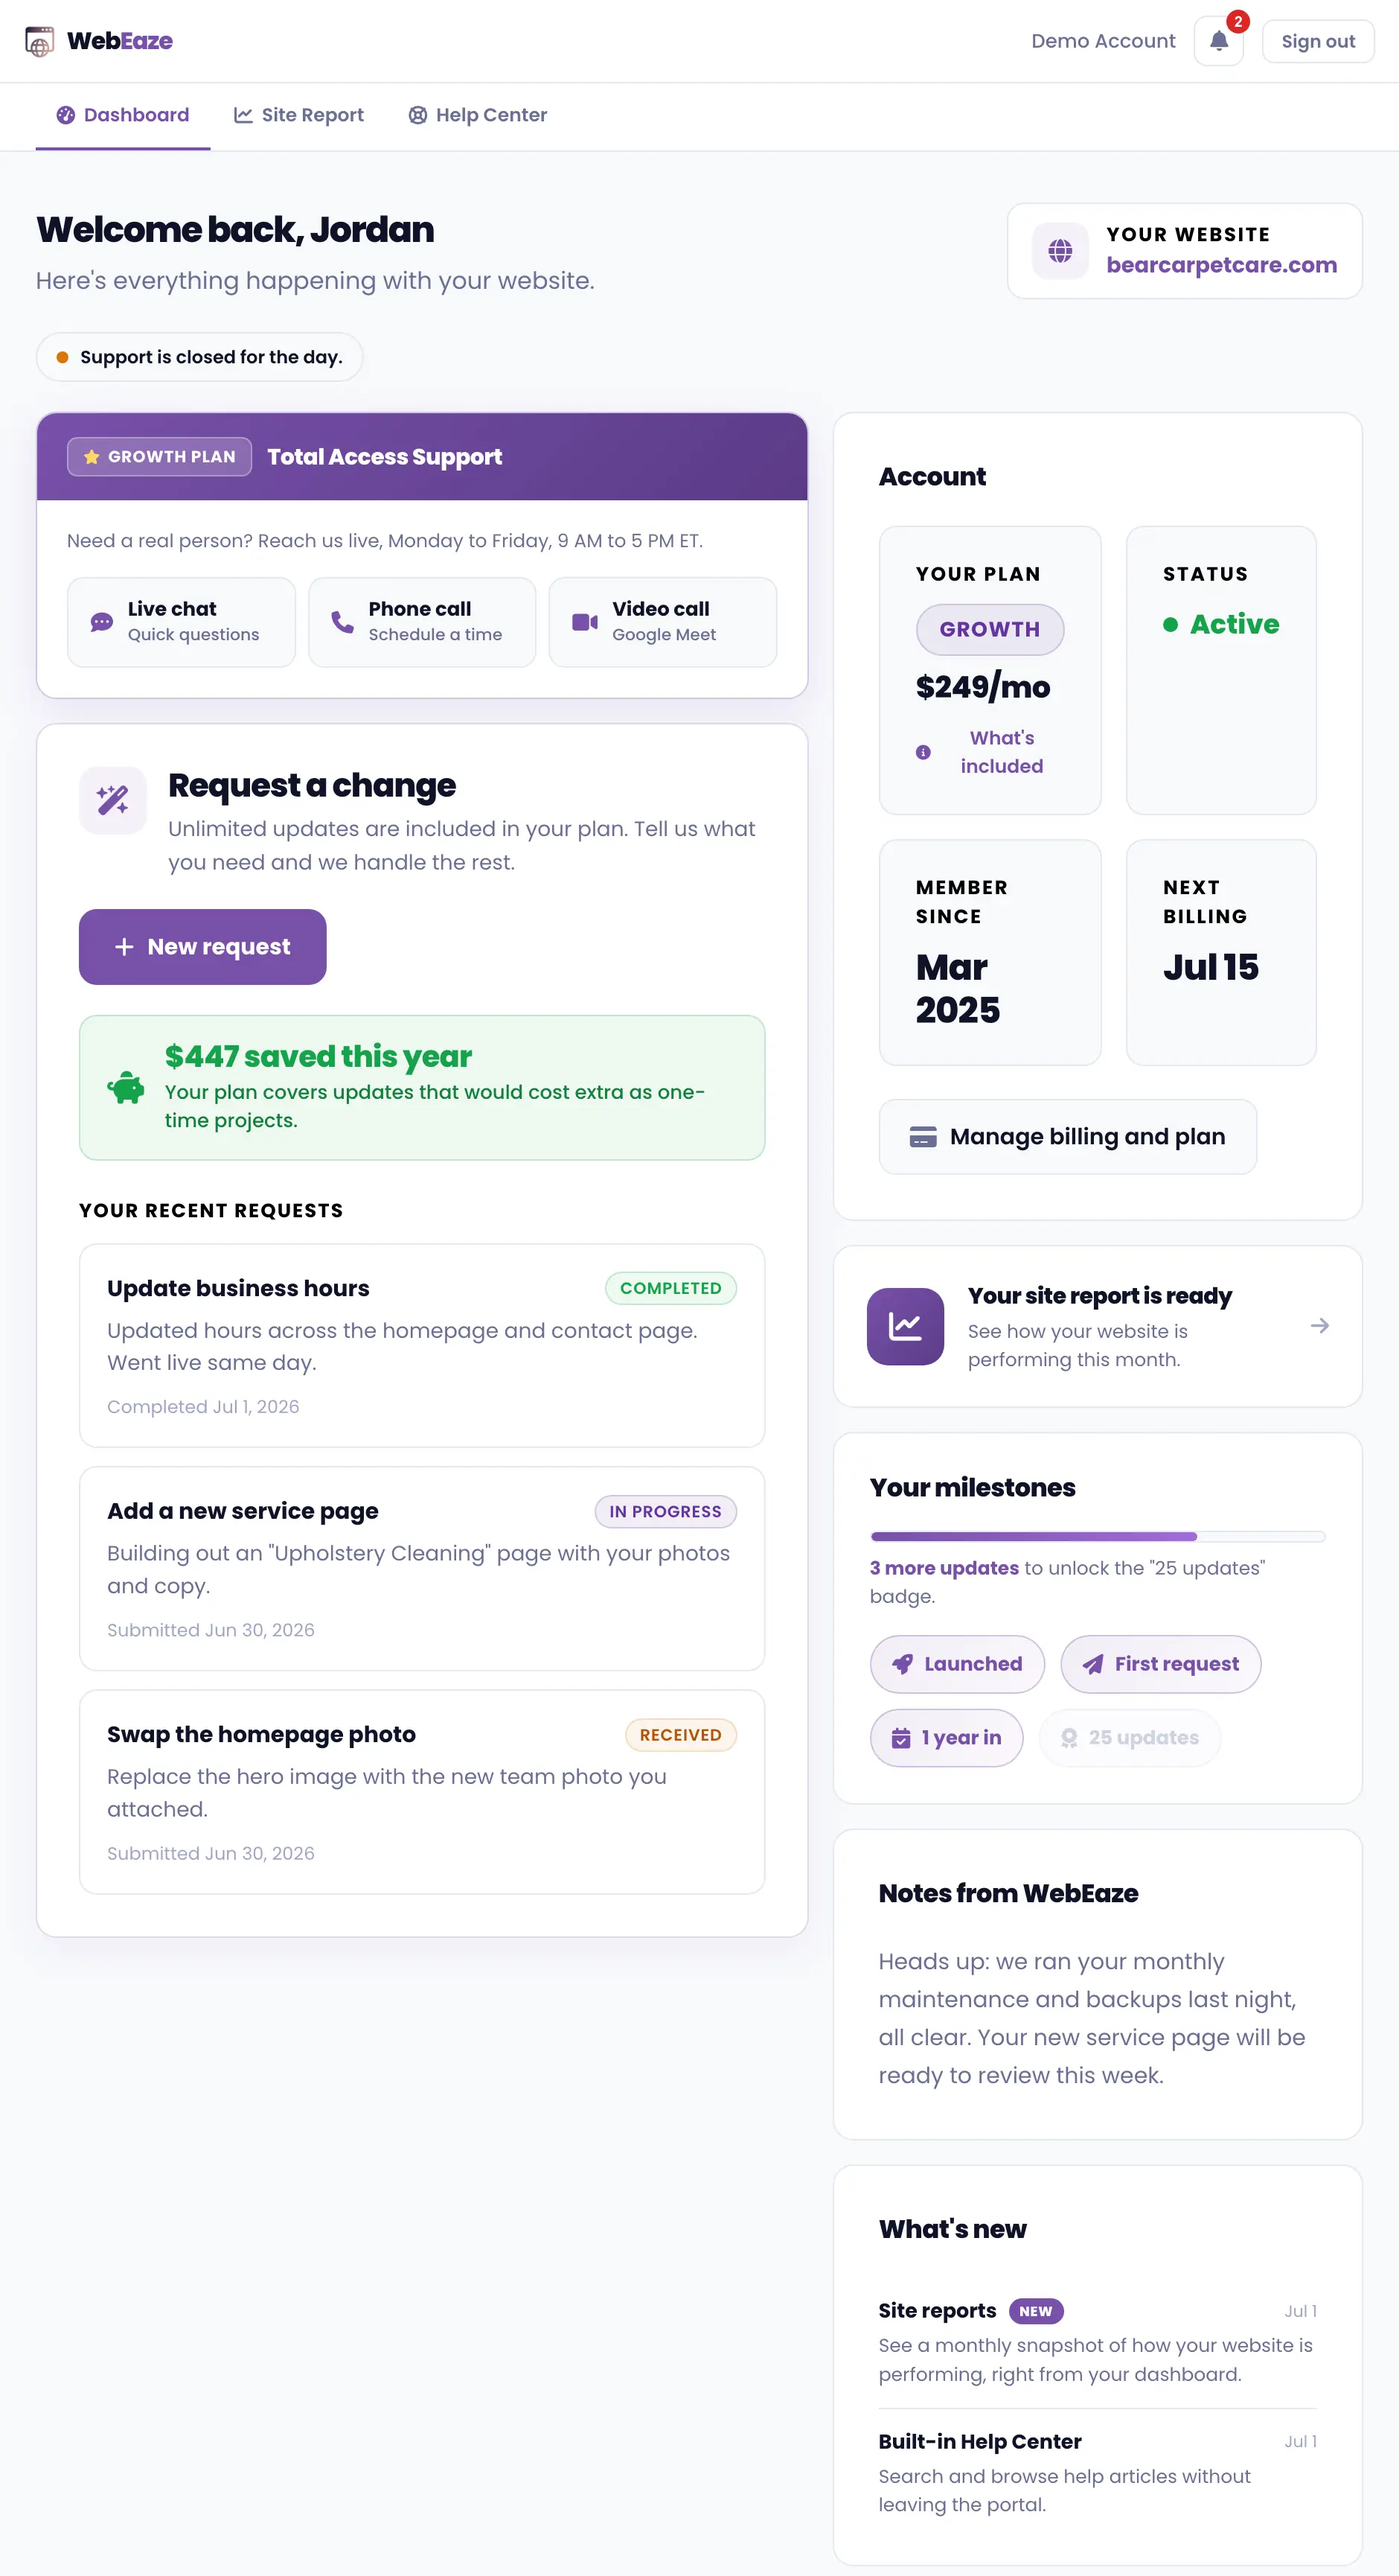
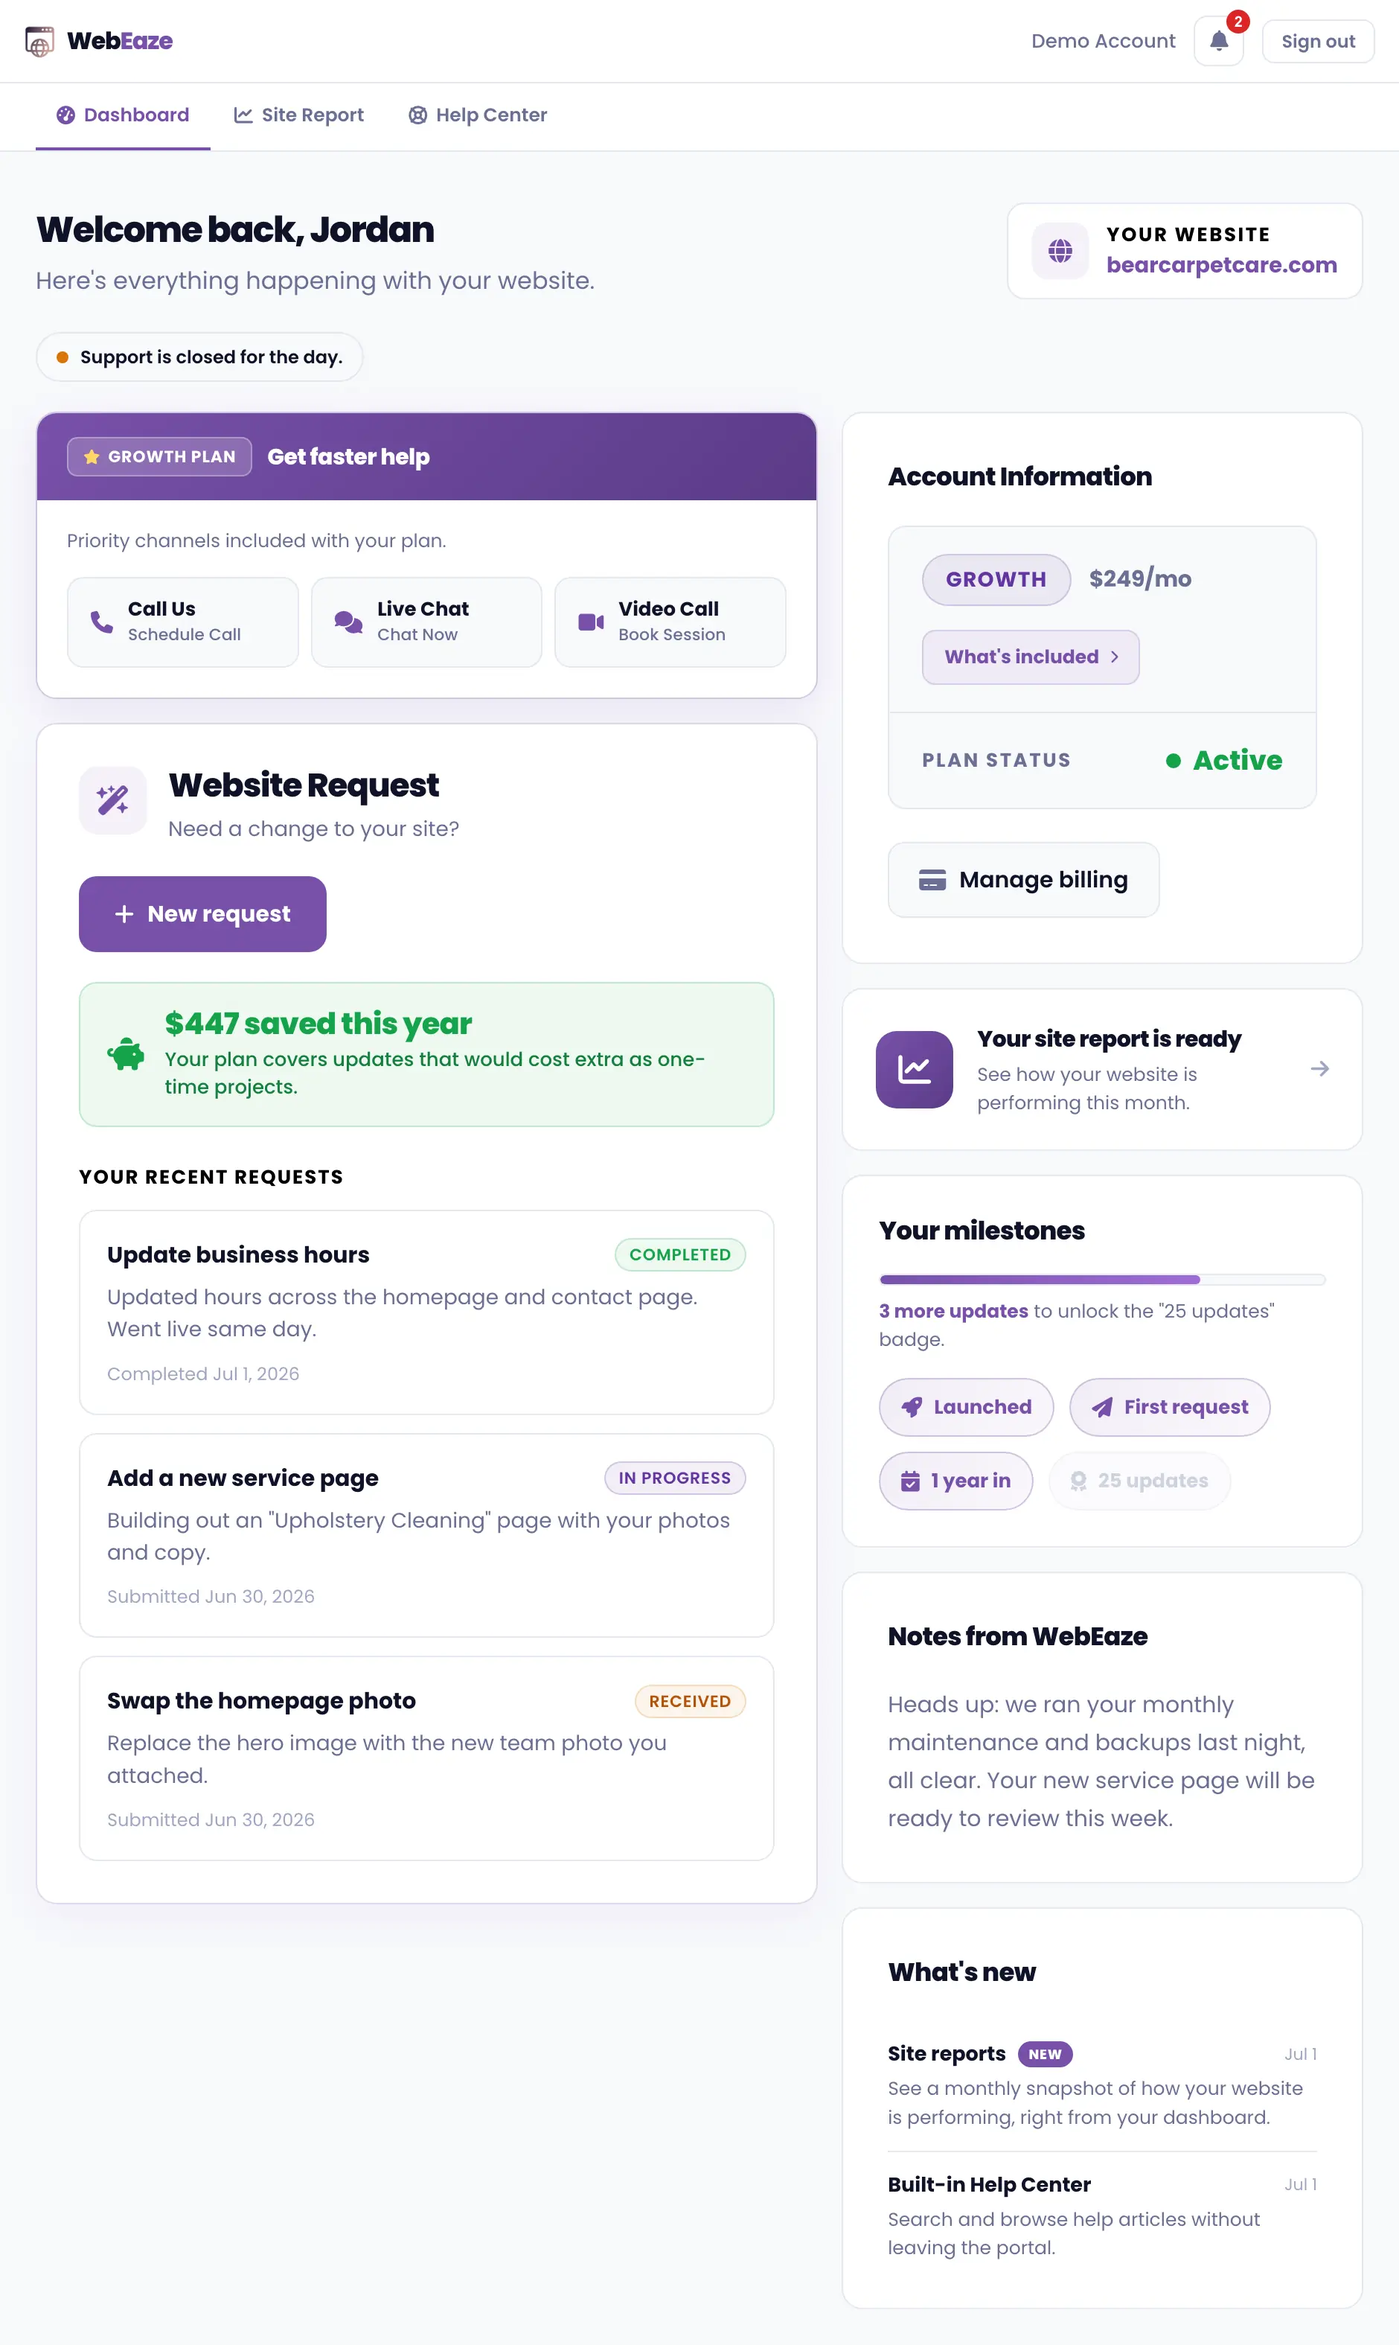
Update portal demo dashboard to mirror the live portal
- Rebuild the demo's Account section to the live account-panel layout
  (plan badge + price, What's included pill, Plan Status, Manage billing),
  replacing the older four-tile grid.
- Match the growth support panel to live copy (Get faster help; Call Us,
  Live Chat, Video Call) and rename the requests section to Website Request.
- Regenerate portal-demo-preview.webp from the updated demo and correct the
  homepage preview <img> aspect ratio (940x1575) to avoid layout shift.

diff --git a/portal-demo.html b/portal-demo.html
@@ -116,9 +116,15 @@
     .plan-badge { display: inline-block; font-size: 14px; font-weight: 700; padding: 6px 15px; border-radius: 100px; text-transform: uppercase; letter-spacing: .05em; background: rgba(120,81,169,.1); color: #6435a0; border: 1px solid rgba(120,81,169,.25); }
     .status-active { display: inline-flex; align-items: center; gap: 8px; font-size: 18px; font-weight: 800; color: var(--green); }
     .status-active .status-dot { width: 10px; height: 10px; animation: none; }
-    .whats-included-btn { display: inline-flex; align-items: center; gap: 6px; margin-top: 10px; padding: 0; background: none; border: none; color: var(--brand); font-size: 12.5px; font-weight: 600; cursor: pointer; font-family: 'Poppins', sans-serif; transition: gap .15s; }
-    .whats-included-btn:hover { gap: 9px; text-decoration: underline; }
-    .whats-included-btn i { font-size: 10px; }
+    .account-panel { border: 1px solid var(--border); border-radius: 12px; background: var(--bg); overflow: hidden; }
+    .account-row { display: flex; align-items: center; justify-content: space-between; gap: 16px; padding: 18px 22px; flex-wrap: wrap; }
+    .account-plan { display: flex; align-items: baseline; gap: 12px; flex-wrap: wrap; }
+    .account-price { font-size: 15px; font-weight: 700; color: var(--muted); letter-spacing: -.01em; }
+    .account-divider { height: 1px; background: var(--border); }
+    .account-row-label { font-size: 13px; font-weight: 700; text-transform: uppercase; letter-spacing: .1em; color: var(--muted); }
+    .whats-included-btn { display: inline-flex; align-items: center; gap: 7px; padding: 8px 14px; background: var(--brand-light); border: 1px solid rgba(120,81,169,.2); border-radius: 9px; color: var(--brand); font-size: 12.5px; font-weight: 700; cursor: pointer; font-family: 'Poppins', sans-serif; white-space: nowrap; transition: background .15s, border-color .15s; }
+    .whats-included-btn:hover { background: rgba(120,81,169,.14); border-color: rgba(120,81,169,.35); }
+    .whats-included-btn i { font-size: 9px; }
     .stripe-btn { display: inline-flex; align-items: center; gap: 9px; background: var(--bg); border: 1px solid var(--border); border-radius: 11px; color: var(--text); font-size: 15px; font-weight: 600; padding: 13px 20px; text-decoration: none; cursor: pointer; font-family: 'Poppins', sans-serif; transition: border-color .15s, background .15s; margin-top: 22px; }
     .stripe-btn:hover { border-color: var(--brand); background: var(--brand-light); color: var(--brand); }
     .stripe-btn i { font-size: 16px; color: var(--muted); }
@@ -319,15 +325,15 @@
         <!-- Growth support -->
         <div class="growth-panel">
           <div class="gp-header">
-            <span class="gp-badge"><i class="fas fa-star"></i> Growth plan</span>
-            <span class="gp-header-title">Total Access Support</span>
+            <span class="gp-badge"><i class="fas fa-star"></i> Growth Plan</span>
+            <span class="gp-header-title">Get faster help</span>
           </div>
           <div class="gp-body-inner">
-            <div class="gp-sub">Need a real person? Reach us live, Monday to Friday, 9 AM to 5 PM ET.</div>
+            <div class="gp-sub">Priority channels included with your plan.</div>
             <div class="gp-channels">
-              <div class="gp-channel demo-action"><i class="fas fa-comment-dots"></i><div><div class="gc-name">Live chat</div><div class="gc-sub">Quick questions</div></div></div>
-              <div class="gp-channel demo-action"><i class="fas fa-phone"></i><div><div class="gc-name">Phone call</div><div class="gc-sub">Schedule a time</div></div></div>
-              <div class="gp-channel demo-action"><i class="fas fa-video"></i><div><div class="gc-name">Video call</div><div class="gc-sub">Google Meet</div></div></div>
+              <div class="gp-channel demo-action"><i class="fas fa-phone"></i><div><div class="gc-name">Call Us</div><div class="gc-sub">Schedule Call</div></div></div>
+              <div class="gp-channel demo-action"><i class="fas fa-comments"></i><div><div class="gc-name">Live Chat</div><div class="gc-sub">Chat Now</div></div></div>
+              <div class="gp-channel demo-action"><i class="fas fa-video"></i><div><div class="gc-name">Video Call</div><div class="gc-sub">Book Session</div></div></div>
             </div>
           </div>
         </div>
@@ -337,8 +343,8 @@
           <div class="section-head">
             <div class="section-head-icon"><i class="fas fa-wand-magic-sparkles"></i></div>
             <div>
-              <div class="section-title">Request a change</div>
-              <div class="section-sub">Unlimited updates are included in your plan. Tell us what you need and we handle the rest.</div>
+              <div class="section-title">Website Request</div>
+              <div class="section-sub">Need a change to your site?</div>
             </div>
           </div>
           <button class="request-cta" id="new-request-btn"><i class="fas fa-plus"></i> New request</button>
@@ -390,28 +396,22 @@
       <!-- RIGHT -->
       <div>
         <div class="card">
-          <div class="card-label">Account</div>
-          <div class="info-grid">
-            <div class="info-tile">
-              <div class="info-tile-label">Your plan</div>
-              <span class="plan-badge">Growth</span>
-              <div class="info-tile-sub">$249/mo</div>
-              <button class="whats-included-btn" id="whats-included"><i class="fas fa-circle-info"></i> What's included</button>
+          <div class="card-label">Account Information</div>
+          <div class="account-panel">
+            <div class="account-row">
+              <div class="account-plan">
+                <span class="plan-badge">Growth</span>
+                <span class="account-price">$249/mo</span>
+              </div>
+              <button class="whats-included-btn" id="whats-included">What's included <i class="fas fa-chevron-right"></i></button>
             </div>
-            <div class="info-tile">
-              <div class="info-tile-label">Status</div>
-              <div class="status-active"><span class="status-dot"></span> Active</div>
-            </div>
-            <div class="info-tile">
-              <div class="info-tile-label">Member since</div>
-              <div class="info-tile-value">Mar 2025</div>
-            </div>
-            <div class="info-tile">
-              <div class="info-tile-label">Next billing</div>
-              <div class="info-tile-value">Jul 15</div>
+            <div class="account-divider"></div>
+            <div class="account-row">
+              <span class="account-row-label">Plan Status</span>
+              <span class="status-active"><span class="status-dot"></span> Active</span>
             </div>
           </div>
-          <button class="stripe-btn demo-action"><i class="fas fa-credit-card"></i> Manage billing and plan</button>
+          <button class="stripe-btn demo-action"><i class="fas fa-credit-card"></i> Manage billing</button>
         </div>
 
         <div class="report-promo-card" id="report-promo">

diff --git a/index.html b/index.html
@@ -2237,7 +2237,7 @@ src="https://www.facebook.com/tr?id=906444072428558&ev=PageView&noscript=1"
       <div class="portal-peek-frame reveal">
         <div class="ppf-bar"><span class="ppf-dot"></span><span class="ppf-dot"></span><span class="ppf-dot"></span><span class="ppf-url">portal.webeaze.io</span></div>
         <div class="ppf-screen" id="ppfScreen">
-          <img class="ppf-shot" src="images/portal-demo-preview.webp" alt="WebEaze client portal dashboard showing requests, plan status, and site report" loading="lazy" decoding="async" width="940" height="1730">
+          <img class="ppf-shot" src="images/portal-demo-preview.webp" alt="WebEaze client portal dashboard showing requests, plan status, and site report" loading="lazy" decoding="async" width="940" height="1575">
           <button type="button" class="ppf-overlay" aria-label="Load the interactive portal demo">
             <span class="ppf-play"><i class="fas fa-play"></i> Activate the Portal</span>
           </button>
